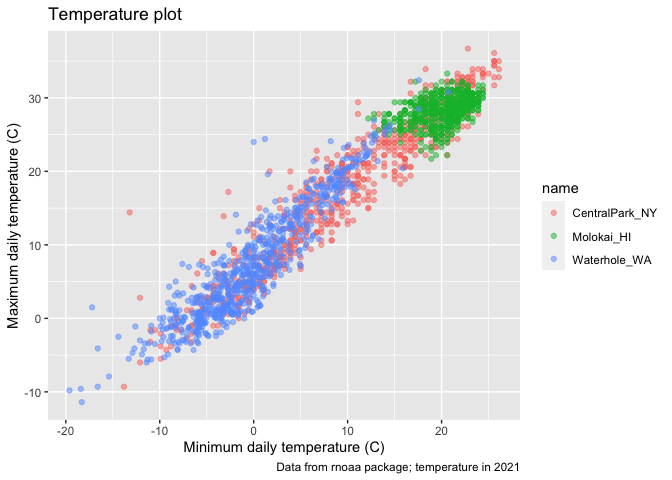
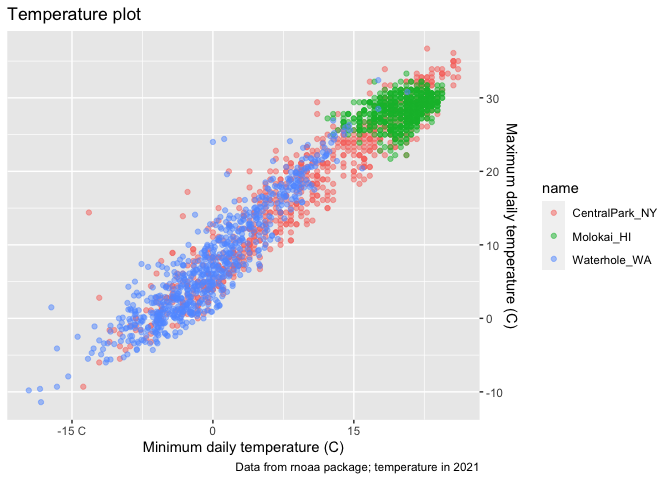
scales

diff --git a/viz_ii.md b/viz_ii.md
@@ -127,9 +127,56 @@ weather_df %>%
     x = "Minimum daily temperature (C)",
     y = "Maximum daily temperature (C)",
     caption = "Data from rnoaa package; temperature in 2021"
+  ) +
+  scale_x_continuous(
+    breaks = c(-15, 0, 15),
+    labels = c("-15 C", "0", "15")
+    ) +
+  scale_y_continuous(
+    position = "right"
   )
 ```
 
     ## Warning: Removed 17 rows containing missing values (`geom_point()`).
 
 ![](viz_ii_files/figure-gfm/unnamed-chunk-3-1.png)<!-- -->
+
+Look at color scales.
+
+``` r
+weather_df %>%
+  ggplot(aes(x = tmin, y = tmax, color = name)) +
+  geom_point(alpha = 0.5) +
+  labs(
+    title = "Temperature plot",
+    x = "Minimum daily temperature (C)",
+    y = "Maximum daily temperature (C)",
+    caption = "Data from rnoaa package; temperature in 2021"
+  ) +
+  scale_color_hue(
+    name = "Location", 
+    h = c(100, 300))
+```
+
+    ## Warning: Removed 17 rows containing missing values (`geom_point()`).
+
+![](viz_ii_files/figure-gfm/unnamed-chunk-4-1.png)<!-- -->
+
+``` r
+weather_df %>%
+  ggplot(aes(x = tmin, y = tmax, color = name)) +
+  geom_point(alpha = 0.5) +
+  labs(
+    title = "Temperature plot",
+    x = "Minimum daily temperature (C)",
+    y = "Maximum daily temperature (C)",
+    caption = "Data from rnoaa package; temperature in 2021"
+  ) +
+  viridis::scale_color_viridis(
+    name = "Location",
+    discrete = TRUE)
+```
+
+    ## Warning: Removed 17 rows containing missing values (`geom_point()`).
+
+![](viz_ii_files/figure-gfm/unnamed-chunk-5-1.png)<!-- -->
